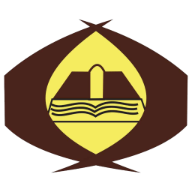
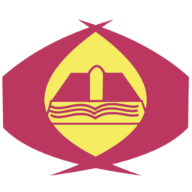
Added login

diff --git a/resources/views/auth/login.blade.php b/resources/views/auth/login.blade.php
@@ -1,73 +1,97 @@
-@extends('layouts.app')
+@extends('layouts.admin')
 
 @section('content')
-<div class="container">
-    <div class="row justify-content-center">
-        <div class="col-md-8">
-            <div class="card">
-                <div class="card-header">{{ __('Login') }}</div>
+<div class="row vh-100">
+    <div class="col-md-4 m-auto">
+        <div class="border shadow p-2" style="background: #f9f9f9;">
+            <a href="/"><i class="fa fa-2x fa-arrow-left position-absolute float-left" style="color: #bb375f;" aria-hidden="true"></i></a>
+            <img class=" m-2 mx-auto d-block" src="/apple-touch-icon.png" alt="">
+            <hr class="mx-5">
+            <p class="text-muted text-center">كلية أمدرمان للطيران والتكنولوجيا</p>
+            <form action="{{ route('login') }}" method="post">
+                @csrf
+                <div class="form-group p-3">
+                    <label class="ms-2" for="email">البريد الإلكتروني</label>
+                    <input type="email" name="email" class="form-control mt-2 @error('email') is-invalid @enderror" required autocomplete="email" autofocus>
+                    <label class="ms-2 mt-2" for="password">كلمة المرور</label>
+                    <input type="password" name="" id="" class="form-control mt-2 @error('password') is-invalid @enderror" required autocomplete="current-password">
+                    @error('password')
+                    <span class="invalid-feedback my-2" role="alert">
+                        <strong>البيانات خاطئة!</strong>
+                    </span>
+                    @enderror
+                    <hr class="mx-5">
+                    <button class="btn btn-success mx-auto d-block">دخول</button>
+                </div>
+            </form>
+        </div>
+        {{-- <div class="card" style="background: #bb375f;">
+                <div class="card-header">{{ __('Login') }}
+    </div>
 
-                <div class="card-body">
-                    <form method="POST" action="{{ route('login') }}">
-                        @csrf
+    <div class="card-body">
+        <form method="POST" action="{{ route('login') }}">
+            @csrf
 
-                        <div class="form-group row">
-                            <label for="email" class="col-md-4 col-form-label text-md-right">{{ __('E-Mail Address') }}</label>
+            <div class="form-group row">
+                <label for="email" class="col-md-4 col-form-label text-md-right">{{ __('E-Mail Address') }}</label>
 
-                            <div class="col-md-6">
-                                <input id="email" type="email" class="form-control @error('email') is-invalid @enderror" name="email" value="{{ old('email') }}" required autocomplete="email" autofocus>
+                <div class="col-md-6">
+                    <input id="email" type="email" class="form-control @error('email') is-invalid @enderror"
+                        name="email" value="{{ old('email') }}" required autocomplete="email" autofocus>
 
-                                @error('email')
-                                    <span class="invalid-feedback" role="alert">
-                                        <strong>{{ $message }}</strong>
-                                    </span>
-                                @enderror
-                            </div>
-                        </div>
-
-                        <div class="form-group row">
-                            <label for="password" class="col-md-4 col-form-label text-md-right">{{ __('Password') }}</label>
-
-                            <div class="col-md-6">
-                                <input id="password" type="password" class="form-control @error('password') is-invalid @enderror" name="password" required autocomplete="current-password">
-
-                                @error('password')
-                                    <span class="invalid-feedback" role="alert">
-                                        <strong>{{ $message }}</strong>
-                                    </span>
-                                @enderror
-                            </div>
-                        </div>
-
-                        <div class="form-group row">
-                            <div class="col-md-6 offset-md-4">
-                                <div class="form-check">
-                                    <input class="form-check-input" type="checkbox" name="remember" id="remember" {{ old('remember') ? 'checked' : '' }}>
-
-                                    <label class="form-check-label" for="remember">
-                                        {{ __('Remember Me') }}
-                                    </label>
-                                </div>
-                            </div>
-                        </div>
-
-                        <div class="form-group row mb-0">
-                            <div class="col-md-8 offset-md-4">
-                                <button type="submit" class="btn btn-primary">
-                                    {{ __('Login') }}
-                                </button>
-
-                                @if (Route::has('password.request'))
-                                    <a class="btn btn-link" href="{{ route('password.request') }}">
-                                        {{ __('Forgot Your Password?') }}
-                                    </a>
-                                @endif
-                            </div>
-                        </div>
-                    </form>
+                    @error('email')
+                    <span class="invalid-feedback" role="alert">
+                        <strong>{{ $message }}</strong>
+                    </span>
+                    @enderror
                 </div>
             </div>
-        </div>
+
+            <div class="form-group row">
+                <label for="password" class="col-md-4 col-form-label text-md-right">{{ __('Password') }}</label>
+
+                <div class="col-md-6">
+                    <input id="password" type="password" class="form-control @error('password') is-invalid @enderror"
+                        name="password" required autocomplete="current-password">
+
+                    @error('password')
+                    <span class="invalid-feedback" role="alert">
+                        <strong>{{ $message }}</strong>
+                    </span>
+                    @enderror
+                </div>
+            </div>
+
+            <div class="form-group row">
+                <div class="col-md-6 offset-md-4">
+                    <div class="form-check">
+                        <input class="form-check-input" type="checkbox" name="remember" id="remember"
+                            {{ old('remember') ? 'checked' : '' }}>
+
+                        <label class="form-check-label" for="remember">
+                            {{ __('Remember Me') }}
+                        </label>
+                    </div>
+                </div>
+            </div>
+
+            <div class="form-group row mb-0">
+                <div class="col-md-8 offset-md-4">
+                    <button type="submit" class="btn btn-primary">
+                        {{ __('Login') }}
+                    </button>
+
+                    @if (Route::has('password.request'))
+                    <a class="btn btn-link" href="{{ route('password.request') }}">
+                        {{ __('Forgot Your Password?') }}
+                    </a>
+                    @endif
+                </div>
+            </div>
+        </form>
     </div>
+</div> --}}
+</div>
 </div>
 @endsection

diff --git a/resources/views/extra/nav.blade.php b/resources/views/extra/nav.blade.php
@@ -2,34 +2,58 @@
 <nav dir="rtl" class="navbar navbar-expand-sm navbar-dark shadow-sm fw-bold fs4" style="background-color: #bb375f">
     <div class="container-fluid">
         <a class="navbar-brand d-sm-block d-md-none" href="/">كلية امدرمان</a>
-    <button class="navbar-toggler d-lg-none d-sm-block" type="button" data-mdb-toggle="collapse" data-mdb-target="#collapsibleNavId" aria-controls="collapsibleNavId"
-        aria-expanded="false" aria-label="Toggle navigation">
-        <i class="fas fa-bars text-white"></i>
-    </button>
-    <div class="collapse navbar-collapse" id="collapsibleNavId">
-        <ul class="navbar-nav ml-auto mt-2 mt-lg-0">
-            <li class="nav-item">
-                <a class="nav-link" href="/">الرئيسية</span></a>
-            </li>
-            <li class="nav-item dropdown">
-                <a class="nav-link" href="{{ route('about') }}">من نحن</span></a>
-            </li>
-            <li class="nav-item dropdown">
-                <a class="nav-link" href="{{ route('news') }}">كل الأخبار</span></a>
-            </li>
-            <li class="nav-item dropdown">
-                <a class="nav-link" href="{{ route('programs') }}">البرامج</span></a>
-            </li>
-            <li class="nav-item dropdown">
-                <a class="nav-link" href="{{ route('calender') }}">التقويم</span></a>
-            </li>
-            <li class="nav-item dropdown">
-                <a class="nav-link" href="{{ route('programs') }}">الصور والفديو</span></a>
-            </li>
-            <li class="nav-item dropdown">
-                <a class="nav-link" href="{{ route('contact') }}">تواصل معنا</span></a>
-            </li>
-        </ul>
-    </div>
+        <button class="navbar-toggler d-lg-none d-sm-block" type="button" data-mdb-toggle="collapse"
+            data-mdb-target="#collapsibleNavId" aria-controls="collapsibleNavId" aria-expanded="false"
+            aria-label="Toggle navigation">
+            <i class="fas fa-bars text-white"></i>
+        </button>
+        <div class="collapse navbar-collapse" id="collapsibleNavId">
+            <ul class="navbar-nav ml-auto mt-2 mt-lg-0">
+                <li class="nav-item">
+                    <a class="nav-link" href="/">الرئيسية</span></a>
+                </li>
+                <li class="nav-item dropdown">
+                    <a class="nav-link" href="{{ route('about') }}">من نحن</span></a>
+                </li>
+                <li class="nav-item dropdown">
+                    <a class="nav-link" href="{{ route('news') }}">كل الأخبار</span></a>
+                </li>
+                <li class="nav-item dropdown">
+                    <a class="nav-link" href="{{ route('programs') }}">البرامج</span></a>
+                </li>
+                <li class="nav-item dropdown">
+                    <a class="nav-link" href="{{ route('calender') }}">التقويم</span></a>
+                </li>
+                <li class="nav-item dropdown">
+                    <a class="nav-link" href="{{ route('programs') }}">الصور والفديو</span></a>
+                </li>
+                <li class="nav-item dropdown">
+                    <a class="nav-link" href="{{ route('contact') }}">تواصل معنا</span></a>
+                </li>
+            </ul>
+            <ul class="navbar-nav ms-auto mt-2 mt-lg-0">
+
+                @if (Auth::guard('web')->check())
+                <li class="nav-item dropdown">
+                    <a class="nav-link" href="{{ route('dash') }}">لوحة التحكم</span></a>
+                </li>
+                <li class="nav-item dropdown">
+                    <a class="dropdown-item text-center waves-effect waves-light" href="{{ route('logout') }}"
+                        onclick="event.preventDefault();
+                           document.getElementById('logout-form').submit();">
+                        تسجيل الخروج
+                    </a>
+                    <form id="logout-form" action="{{ route('logout') }}" method="POST" style="display: none;">
+                        {{ csrf_field() }}
+                    </form>
+                </li>
+                @else
+                <li class="nav-item dropdown">
+                    <a class="nav-link" href="{{ route('login') }}">تسجيل الدخول</span></a>
+                </li>
+                @endif
+
+            </ul>
+        </div>
     </div>
 </nav>

diff --git a/resources/views/layouts/admin.blade.php b/resources/views/layouts/admin.blade.php
@@ -8,27 +8,7 @@
     <!-- CSRF Token -->
     <meta name="csrf-token" content="{{ csrf_token() }}">
 
-    <link rel="apple-touch-icon" sizes="180x180" href="/apple-touch-icon.png">
-    <link rel="icon" type="image/png" sizes="32x32" href="/favicon-32x32.png">
-    <link rel="icon" type="image/png" sizes="16x16" href="/favicon-16x16.png">
-    <link rel="manifest" href="/site.webmanifest">
-
     <title>كلية أمدرمان للطيران والتكنولوجيا</title>
-
-    <link href='css/main.css' rel='stylesheet' />
-    <script src='js/main.js'></script>
-    <script>
-
-      document.addEventListener('DOMContentLoaded', function() {
-        var calendarEl = document.getElementById('calendar');
-        var calendar = new FullCalendar.Calendar(calendarEl, {
-          initialView: 'dayGridMonth',
-          editable: 'true',
-        });
-        calendar.render();
-      });
-
-    </script>
 
     @yield('stylee')
 
@@ -47,19 +27,17 @@
     <link href="https://fonts.googleapis.com/css?family=Nunito" rel="stylesheet">
 
     <!-- Styles -->
-    <link href="https://cdnjs.cloudflare.com/ajax/libs/mdb-ui-kit/3.3.0/mdb.rtl.min.css" rel="stylesheet"/>
-    {{-- <link rel="stylesheet" href="https://cdn.jsdelivr.net/npm/bootstrap@5.0.0-beta2/dist/css/bootstrap.rtl.min.css" integrity="sha384-4dNpRvNX0c/TdYEbYup8qbjvjaMrgUPh+g4I03CnNtANuv+VAvPL6LqdwzZKV38G" crossorigin="anonymous"> --}}
-    {{-- <link href="{{ asset('css/app.css') }}" rel="stylesheet"> --}}
+    <link href="https://cdnjs.cloudflare.com/ajax/libs/mdb-ui-kit/3.3.0/mdb.rtl.min.css" rel="stylesheet">
     <link href="{{ asset('css/custom.css') }}" rel="stylesheet">
 </head>
 
-<body class="Site">
-    <div id="app" class="Site-content">
+<body style="background: #bb375f;">
+    <div id="app">
         <main class="container">
             @yield('content')
 
 
-            @include('extra.footer')
+            
         </main>
     </div>
 </body>

diff --git a/app/Http/Controllers/PostController.php b/app/Http/Controllers/PostController.php
@@ -11,10 +11,10 @@ use Purifier;
 
 class PostController extends Controller
 {
-    // public function __construct()
-    // {
-    //     $this->middleware('auth:admin');
-    // }
+    public function __construct()
+    {
+        $this->middleware('web');
+    }
     /**
      * Display a listing of the resource.
      *
